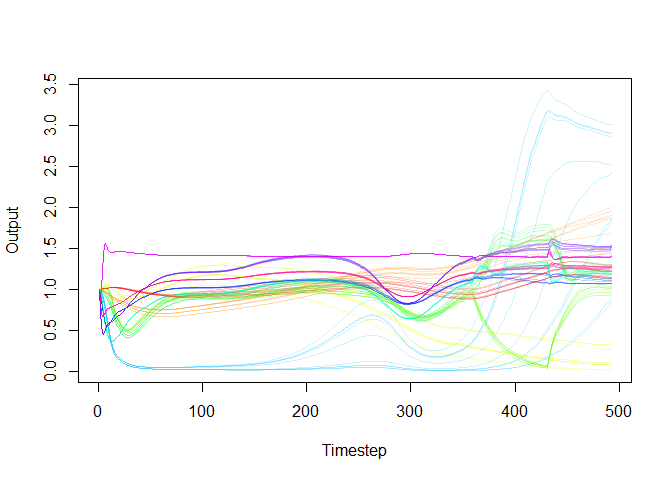
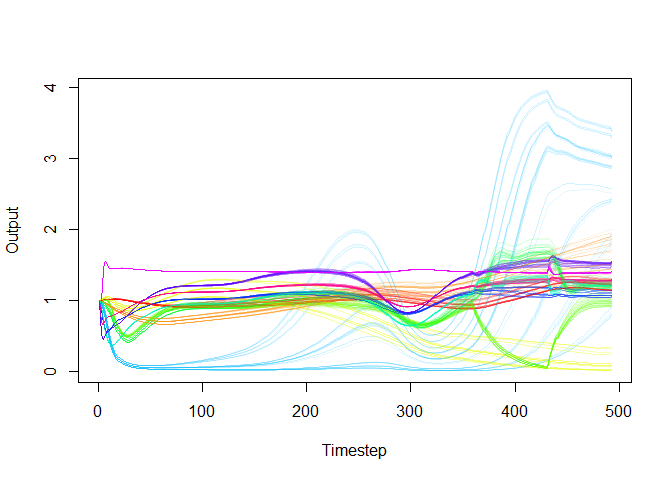
Updated readme to point to published run console for download.

diff --git a/README.md b/README.md
@@ -12,10 +12,12 @@ experimental](https://img.shields.io/badge/lifecycle-experimental-orange.svg)](h
 <img src="./man//figures/logo_niva.png" style="width:30.0%" /><img src="./man//figures/logo_eii.png" style="width:30.0%" />
 <img src="./man//figures/logo_rcn.png" style="width:30.0%" />
 
-EcoCX enables computational experiments with Ecopath with Ecosim and
-Ecospace (EwE) models.
+EcoCX is an R package enabling computational experiments with Ecopath
+with Ecosim and Ecospace (EwE) models. Its development is supported by a
+FRIPRO grant from the Research Council of Norway (project CLIMAX,
+2025-2028).
 
-It contains functions to:
+EcoCX contains functions to:
 
 - read an EwE model
 - create alternative inputs for, e.g., fishing effort time series and
@@ -23,8 +25,8 @@ It contains functions to:
 - design computational experiments, i.e., repeated model runs that
   systematically change the inputs to learn about their effects and
   interactions
-- execute the computational experiments by invoking the new (not yet
-  published!) EwE Run Console
+- execute the computational experiments by invoking the EwE Run Console
+  (<https://github.com/Official-EwE/Eii.Ecopath.Runner>)
 - summarize, visualize, and analyze the outputs of the model runs
 
 For example, EcoCX might be used to quantify the effects of different
@@ -50,11 +52,6 @@ in the test phase and are scheduled for release in late 2026. Additional
 experimental designs are planned for 2027. Meanwhile, users are free to
 create their own experimental designs, output indicators, etc.
 
-Because the EwE Run Console - in essence, a command line interface to
-EwE - is not yet published, you’ll need to request an executable from
-the Ecopath International Initiative (www.ecopathinternational.org) to
-actually run the computational experiments.
-
 ## Installation
 
 You can install the development version of EcoCX like so:
@@ -63,10 +60,17 @@ You can install the development version of EcoCX like so:
 remotes::install_github("anstoc/ecocx")
 ```
 
+EcoCX builds on the EwE Run Console - in essence, a command line
+interface for running EwE models. To execute Ecosim and Ecospace models,
+you need to install the run console separately. It is available here:
+<https://github.com/Official-EwE/Eii.Ecopath.Runner>.
+
 ## Example
 
 This is a basic example running Monte Carlo simulations modifying
-fishing effort in an example model:
+fishing effort in an example model. The built-in example model comes
+from the free EwE textbook, which we highly recommend (get yours at
+<https://pressbooks.bccampus.ca/ewemodel/>).
 
 ``` r
 library(ecocx)
@@ -74,7 +78,7 @@ library(ecocx)
 xml_model=paste0(get_path_to_exampledata(),"anchovy_bay_ecosim_ex.eiixml")
 m=load_model_from_xml(xml_model)
 
-#see the functional groups and fleets
+##see the functional groups and their input parameters
 m$ecopath$basic_estimates
 #>    GroupID Sequence     GroupName Biomass         PoB   QoB  EE
 #> 2        2        1        Whales  0.0800   0.0500000  9.00  NA
@@ -88,14 +92,6 @@ m$ecopath$basic_estimates
 #> 10      10        9   Zooplankton 14.8000  35.0000000    NA  NA
 #> 11      11       10 Phytoplankton 18.0000 120.0000000    NA  NA
 #> 1        1       11      Detritus 10.0000          NA    NA 0.0
-
-m$ecopath$fleets
-#>   FleetID  FleetName
-#> 1       1    Sealers
-#> 2       2   Trawlers
-#> 3       3    Seiners
-#> 4       4 Bait boats
-#> 5       5  Shrimpers
 
 ##create a set of factors (inputs that change in each model run): +/- 20% effort for the model's five fishing fleets 
 factor_set=new_ecosim_factor_set(m)
@@ -128,61 +124,26 @@ summary(factor_set)
 #> 13            shapes              Tempwarm       1
 #> 14            shapes              Twhiting       1
 
-#create experimental design: random Monte Carlo with 10 runs
+##create experimental design: random Monte Carlo with 50 runs
 set.seed(125)
-design_mc=sampler_random(factor_set,size=10)
+design_mc=sampler_random(factor_set,size=50)
 
-design_mc
-#>    run_id sub_id   run_name               comment foraging_resp mediation
-#> 1    0001   0000 R0001_0000  Random sample, run 1       default   default
-#> 2    0002   0000 R0002_0000  Random sample, run 2       default   default
-#> 3    0003   0000 R0003_0000  Random sample, run 3       default   default
-#> 4    0004   0000 R0004_0000  Random sample, run 4       default   default
-#> 5    0005   0000 R0005_0000  Random sample, run 5       default   default
-#> 6    0006   0000 R0006_0000  Random sample, run 6       default   default
-#> 7    0007   0000 R0007_0000  Random sample, run 7       default   default
-#> 8    0008   0000 R0008_0000  Random sample, run 8       default   default
-#> 9    0009   0000 R0009_0000  Random sample, run 9       default   default
-#> 10   0010   0000 R0010_0000 Random sample, run 10       default   default
-#>    vulnerability   Sealers  Trawlers   Seiners Baitboats Shrimpers PPanomaly
-#> 1        default  lower20p   default   default  lower20p higher20p   default
-#> 2        default  lower20p higher20p   default  lower20p   default   default
-#> 3        default   default  lower20p   default  lower20p higher20p   default
-#> 4        default   default   default higher20p   default   default   default
-#> 5        default higher20p   default  lower20p   default   default   default
-#> 6        default  lower20p  lower20p  lower20p  lower20p   default   default
-#> 7        default   default   default   default higher20p higher20p   default
-#> 8        default  lower20p  lower20p higher20p higher20p higher20p   default
-#> 9        default higher20p   default higher20p higher20p   default   default
-#> 10       default  lower20p higher20p higher20p higher20p higher20p   default
-#>    Tbottom Seal-Mackerel-Anchovy Tempcold Tempwarm Twhiting
-#> 1  default               default  default  default  default
-#> 2  default               default  default  default  default
-#> 3  default               default  default  default  default
-#> 4  default               default  default  default  default
-#> 5  default               default  default  default  default
-#> 6  default               default  default  default  default
-#> 7  default               default  default  default  default
-#> 8  default               default  default  default  default
-#> 9  default               default  default  default  default
-#> 10 default               default  default  default  default
+##connect to EwE Run Console (must be downloaded separately from https://github.com/Official-EwE/Eii.Ecopath.Runner). Replace path to the downloaded executable with your own.
+ewe_link=connect_to_ewe("C:/Users/ANC/OneDrive - NIVA/Projects/2025/2025CLIMAX/WP1/TestRunConsole/EwERunConsole-1.0.32/EwERunConsole.exe")
 
-#connect to EwE Run Console. Note that at present, you'll need to obtain the executable via a request to the Ecopath International Initiative.
-ewe_link=ecocx::connect_to_ewe("C:/Users/ANC/OneDrive - NIVA/Projects/2025/2025CLIMAX/WP1/TestRunConsole/EwERunConsole-1.0.32/EwERunConsole.exe")
-
-#optional: use future.apply library for parallel processing
+##optional: use futures for parallel processing
 library(future.apply)
 #> Loading required package: future
 plan(multisession)
 
-#run the model repeatedly according to the design!
+##execute the model repeatedly according to the design!
 cx_table=run_ecosim_experiment(design_mc,xml_model,factor_set,ewe_link,paste0(tempdir(),"/mctest"),parallel=T)
 
-#obtain biomasses
+##obtain biomasses
 df_cx=get_ecosim_cx_biomass(cx_table, m,relative=T)
 
-#plot the 10 runs. Colors are species groups.
-plot_all_runs(df_cx,alpha=0.2)
+##plot the 50 runs. One line for each run and species group, and colors are species groups.
+plot_all_runs(df_cx,alpha=0.1)
 ```
 
 <img src="man/figures/README-example-1.png" alt="" width="50%" />
